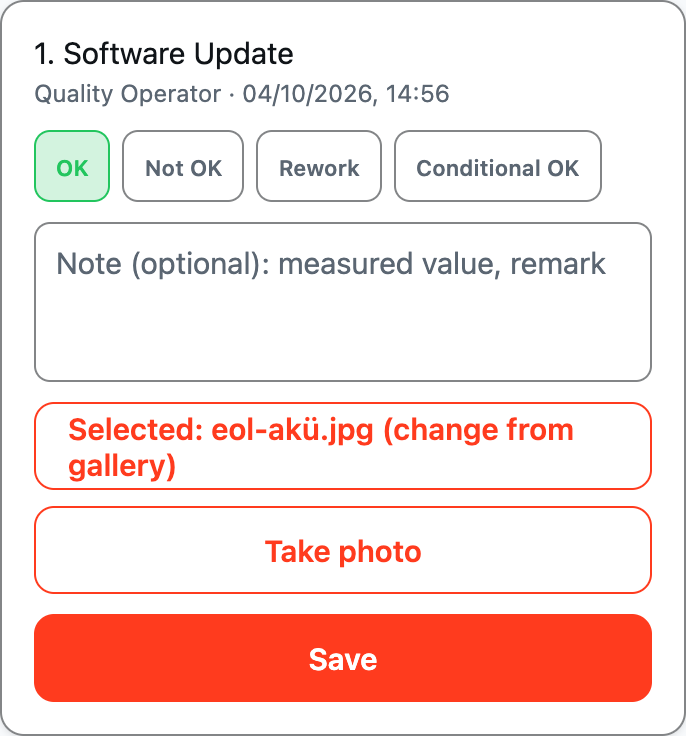
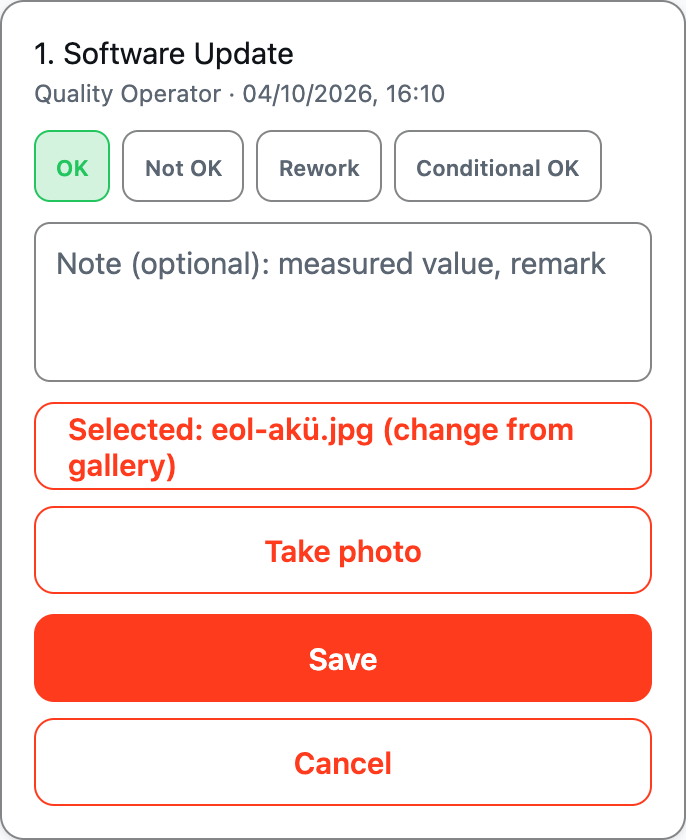
test: add eol badge collapse checks for web and mobile

diff --git a/docs/screenshots/mobile-harness/scenes.ts b/docs/screenshots/mobile-harness/scenes.ts
@@ -415,7 +415,7 @@ export const SCENES: Scene[] = [
       vehicle: vehicle(LINE_VIN, 'IN_PRODUCTION', 'BRANCH', 43.53),
       checklists: {
         eol: eolBranch(false, ['PENDING', 'PENDING', 'PENDING']).map((it) =>
-          it.ItemID === 1 ? { ...it, Photos: [1, 2, 3].map((n) => eolPhoto(it.ItemID, n)) }
+          it.ItemID === 1 ? { ...it, Note: 'ölçüm 12.6', Photos: [1, 2, 3].map((n) => eolPhoto(it.ItemID, n)) }
             : it.ItemID === 2 ? { ...it, Photos: [eolPhoto(it.ItemID, 4)] }
               : { ...it, Photos: [] }),
       },

diff --git a/docs/16_KAREA_Yapilacaklar.md b/docs/16_KAREA_Yapilacaklar.md
@@ -936,6 +936,28 @@ başlatılınca devreye girer.
   sonra" → yalnız new_note; mevcut 24 denetim satırının md5'i önce/sonra
   aynı). Kalıcı testler: `TestRecordChecklistAudit_KeepsOldAndNewEOLNote`,
   `TestRecordChecklistAudit_NoNoteKeysOutsideEOL`.
+
+### A47. Cevaplanan EOL maddesi rozete daralır `[x]` — 2026-10-06
+- **Değişiklik (web `ChecklistPanel` → `EolItemRow`, mobil
+  `EOLChecklistScreen`):** PENDING dışındaki EOL maddesi kapalı gösterilir:
+  madde adı, durum rozeti, "Düzenle", "Not: …" (not varsa), kim/ne zaman ve
+  fotoğraflar. Durum düğmeleri, not kutusu ve Kaydet görünmez. Rozete
+  dokununca editör kayıtlı durum ve notla dolu açılır; İptal taslağı atıp
+  kapatır, başarılı Kaydet listeyi yeniledikten sonra kapatır. Fotoğraf
+  yükleme düşerse madde açık kalır (hata ve seçili fotoğraf görünür).
+  PENDING maddeler eskisi gibi açık. Test ve Sevk ekranları ile ortak
+  `CollapsedItemsSection` değişmedi. Backend ve migration yok.
+- **Kanıt (web, test DB `karea_eolnote_test` + test API 18081):**
+  `docs/screenshots/eol-photo/capture-web-collapse-output.txt` (1280 TR,
+  375 TR, 1280 EN; rozet/not/fotoğraf, editörsüz rozet, dolu editör, İptal
+  taslağı atar, NOT_OK+"conta yırtık" Kaydet → yeni rozet ve sunucuda aynı
+  değer) + `web-collapse-*.png`.
+- **Kanıt (mobil düzenek):** `capture-mobile-collapse-output.txt` (TR/EN ×
+  375/1280; 3 cevaplı madde rozet, İptal istek atmaz, Kaydet
+  `recordChecklist(1, {status:'NOT_OK', note:'conta yırtık'})` sonra yine
+  rozet, PENDING 113 açık) + `mobile-collapse-*.png`. `offline-retry.mjs`,
+  `capture-mobile.mjs` ve `eol-note/capture-web.mjs` önce rozete dokunacak
+  şekilde güncellendi; hepsi geçiyor.
 ---
 
 ## B — Canlıya çıkmadan önce ZORUNLU
